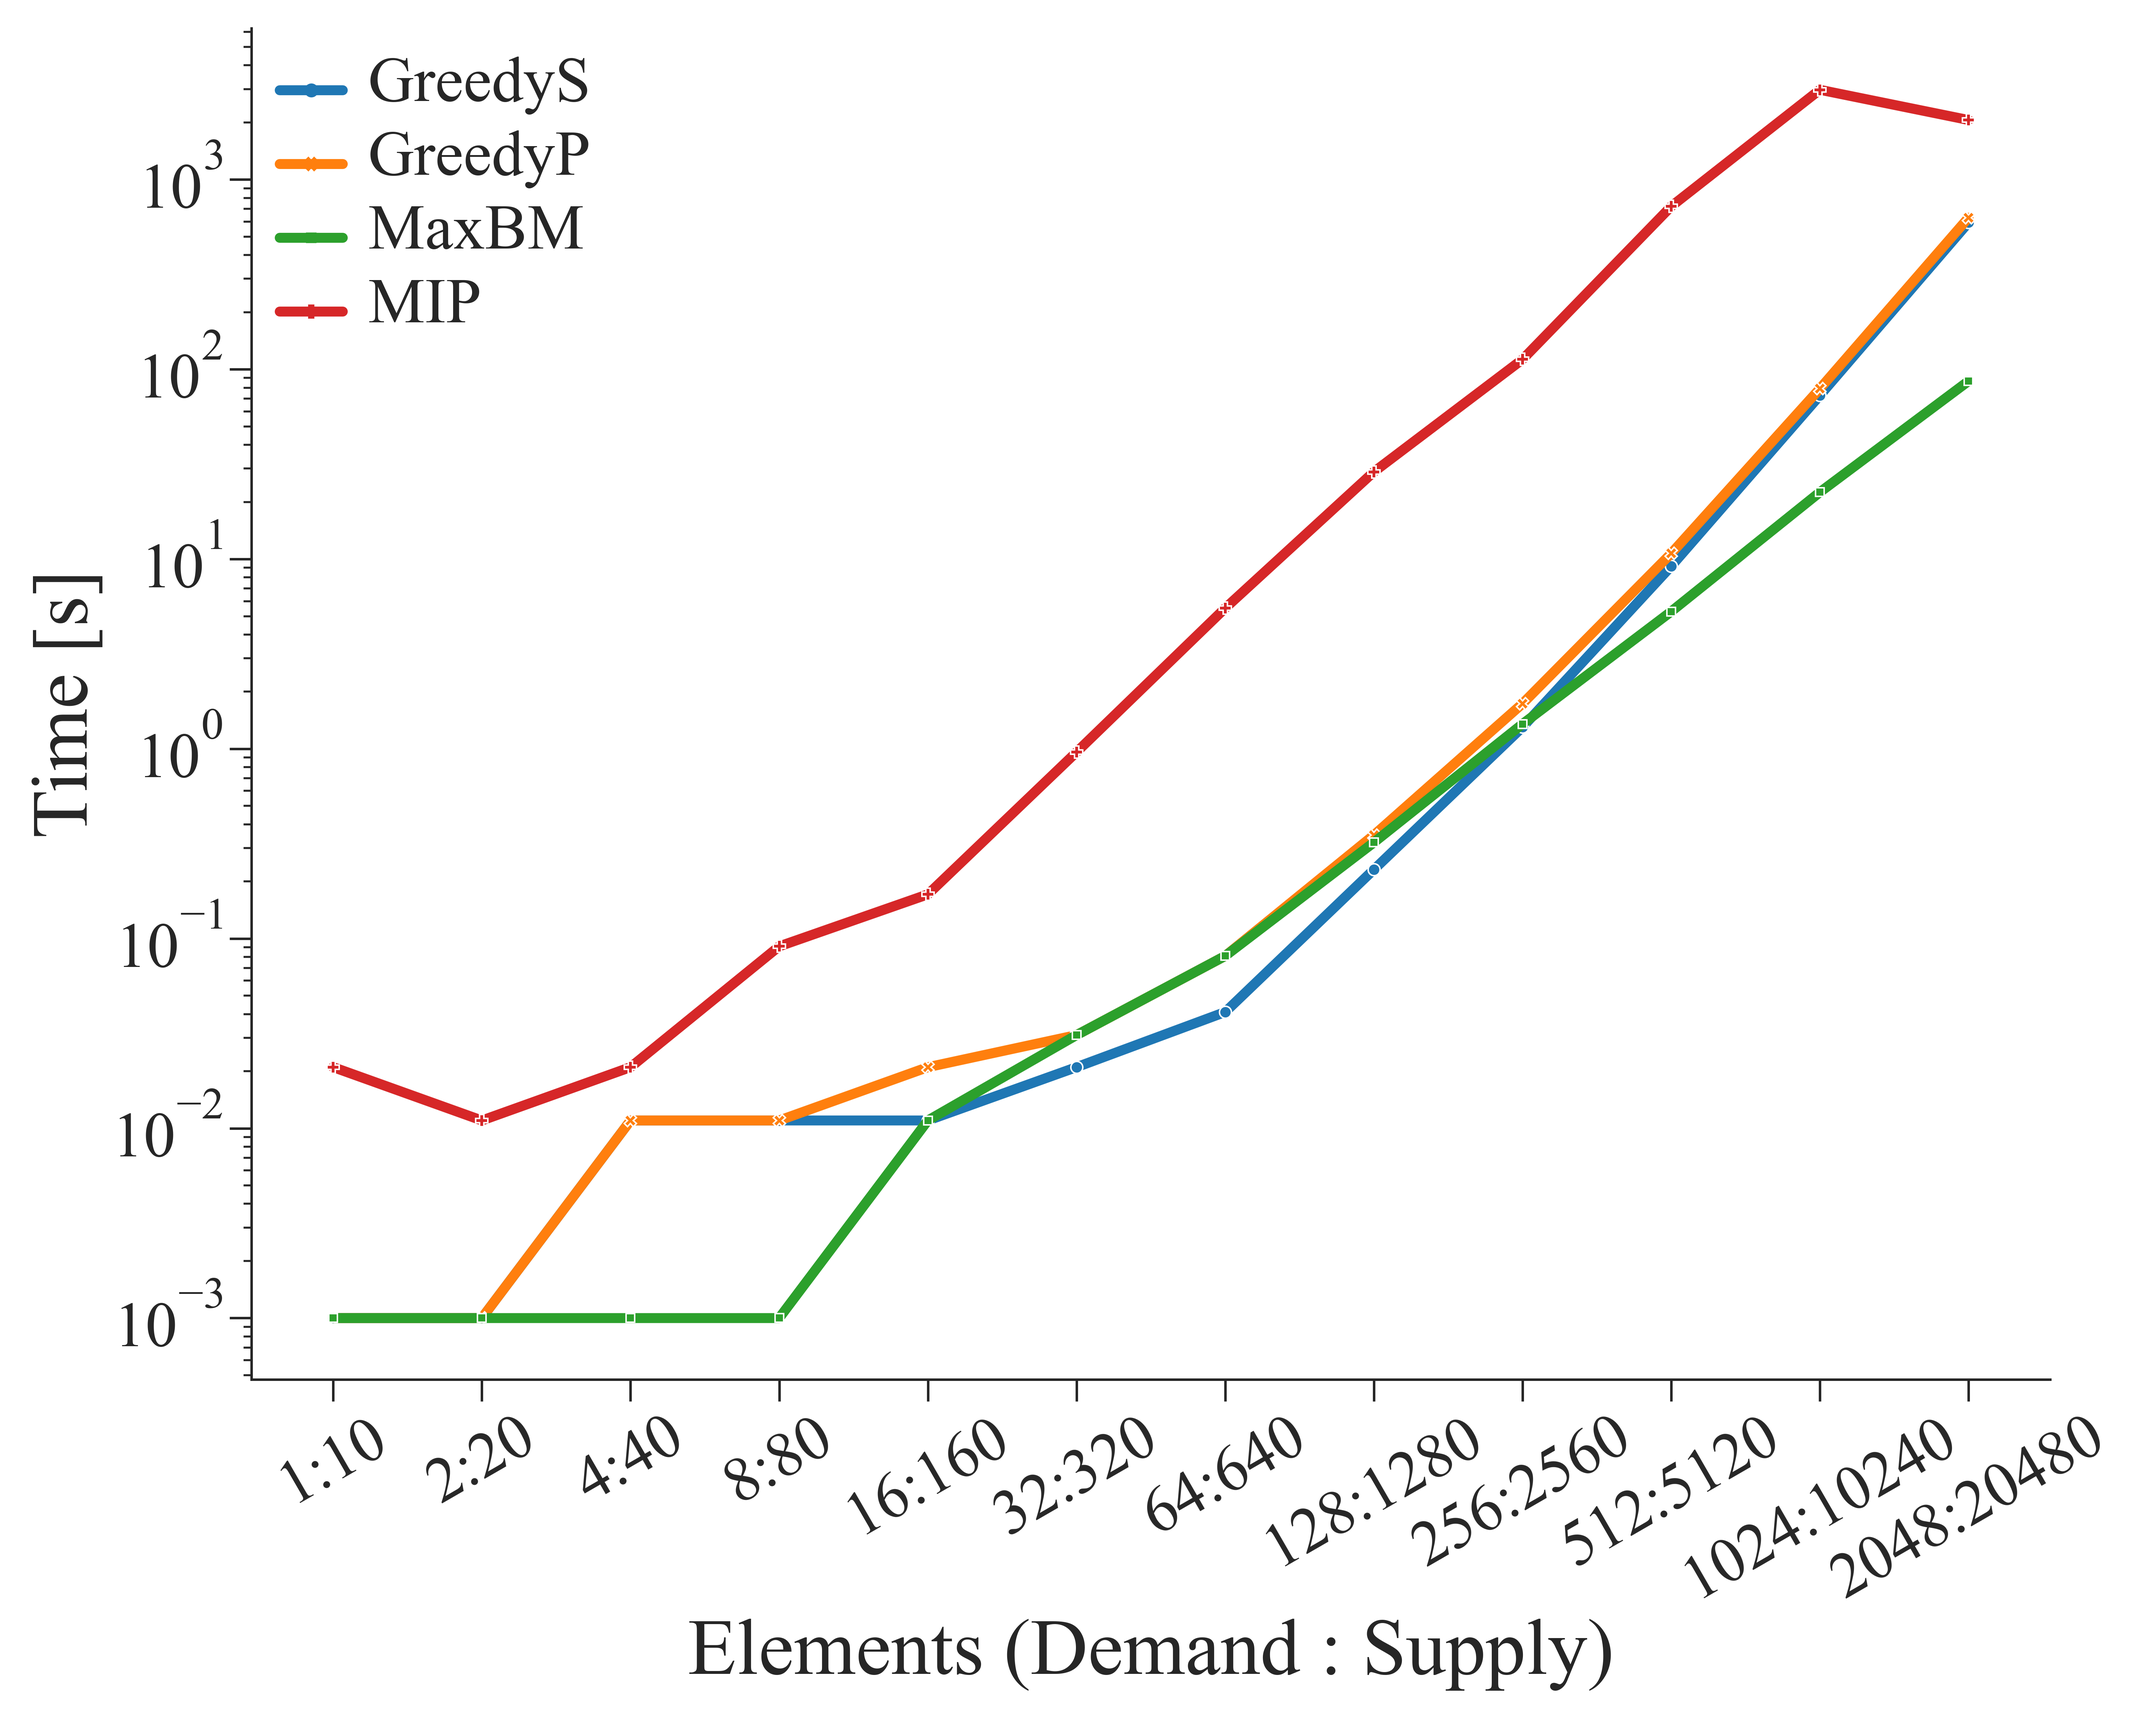
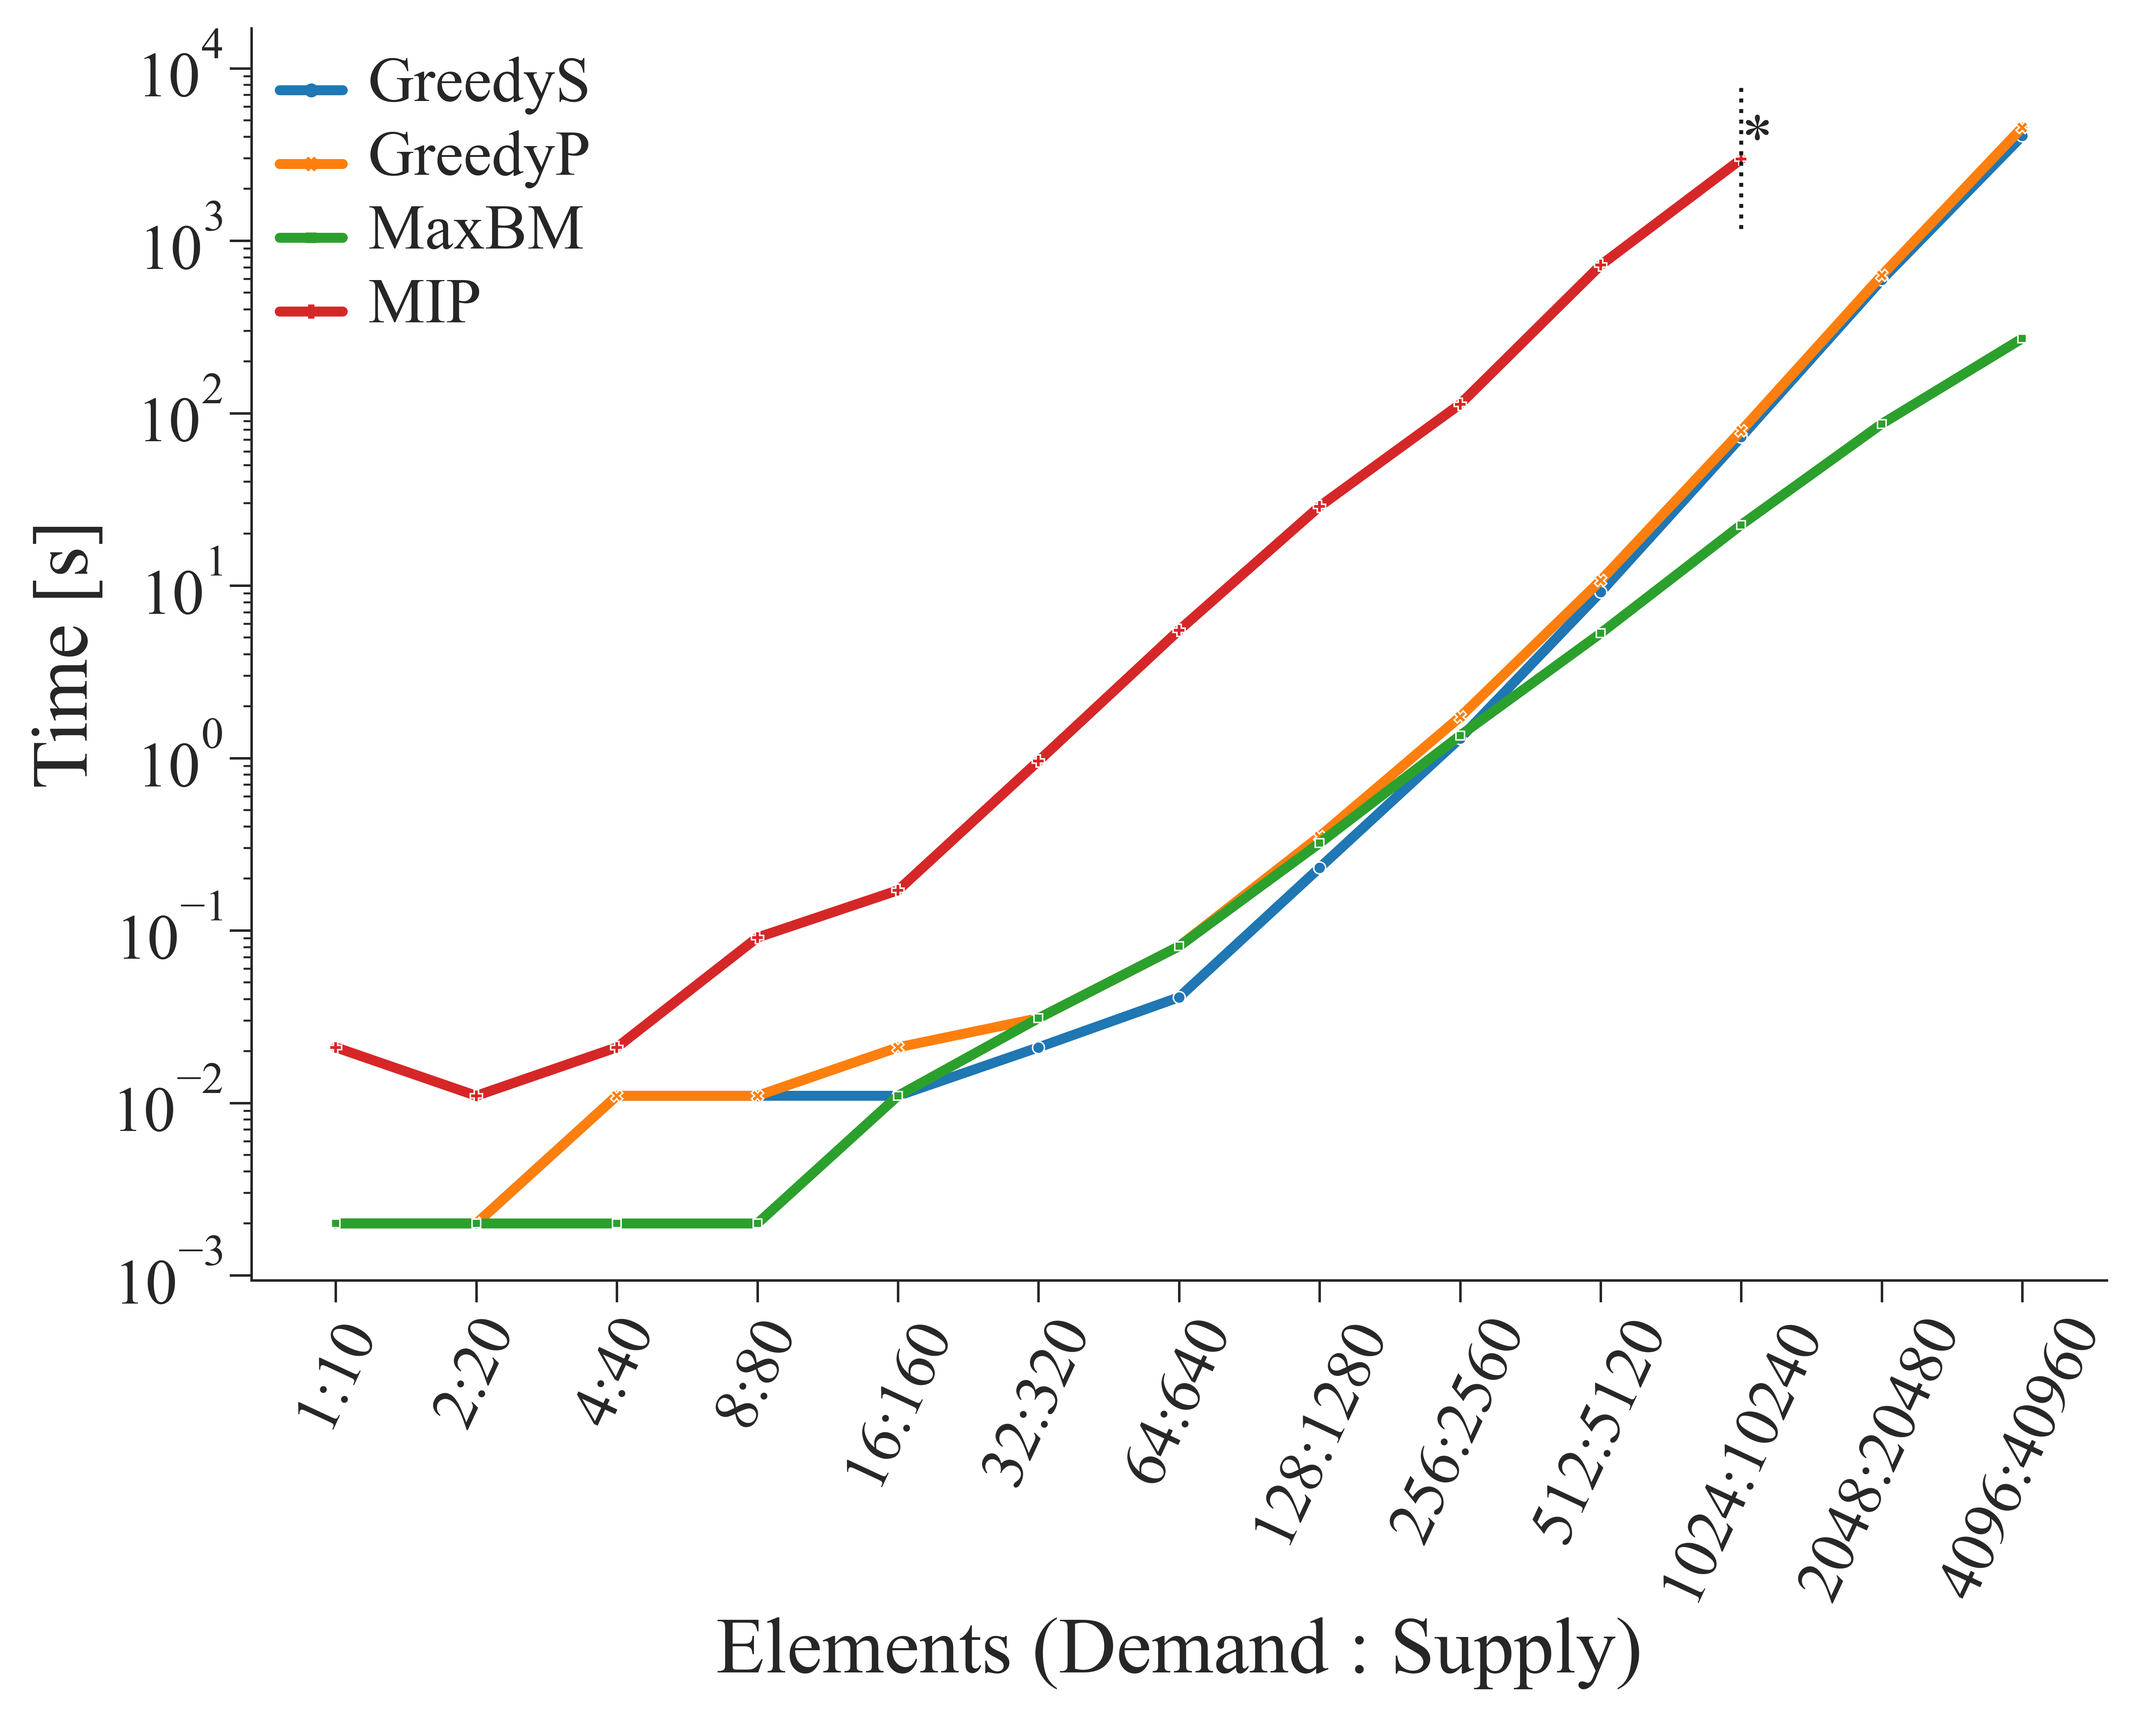
opp med endringer

diff --git a/TestCases/study_case_trusses.py b/TestCases/study_case_trusses.py
@@ -297,7 +297,7 @@ if __name__ == "__main__":
     amounts = [
         # test
         # [15,10],
-        [25,20],
+        # [25,20],
         # [35,30],
         # variable ratios
         # [985,15],
@@ -327,7 +327,7 @@ if __name__ == "__main__":
         # [1024,10240],
         #only without MIP
         # [2048,20480],
-        # [4096,40960],
+        [4096,40960],
         ]
 
     results_score_df = pd.DataFrame(columns = ["Greedy_single", "Greedy_plural", "Bipartite", "MILP"])
@@ -355,7 +355,7 @@ if __name__ == "__main__":
         # Run the matching
         result = run_matching(demand, supply, score_function_string_demand=score_function_string_demand, score_function_string_supply = score_function_string_supply,
                             constraints = constraint_dict, add_new = False,
-                            milp=False, sci_milp=False, greedy_single=True, greedy_plural=True, bipartite=True, solution_limit= 20000) 
+                            milp=False, sci_milp=False, greedy_single=False, greedy_plural=True, bipartite=False, solution_limit= 20000) 
 
         pairs = hm.extract_pairs_df(result) # get matching pairs
         supply_assignments_df = hm.get_assignment_df(pairs, supply_ids= supply.index)
@@ -386,12 +386,6 @@ if __name__ == "__main__":
     normalised_old_df = results_old_df.apply(lambda row: row / max(row), axis = 1).multiply(100).round(2)
 
     
-    #hm.plot_savings(results_score_df, **plot_kwargs)
-    #hm.plot_savings(normalised_score_df, save_fig = save_figs, **plot_kwargs) # Added by Sverre
-    #hm.plot_old(results_old_df, **plot_kwargs)
-    #hm.plot_old(normalised_old_df, save_fig = save_figs, **plot_kwargs) # Added by Sverre to see effect of normalising numbers
-    #hm.plot_time(results_time_df, save_fig = save_figs, **plot_kwargs)
-
     
     print(results_score_df)
     print(results_old_df)
@@ -401,7 +395,7 @@ if __name__ == "__main__":
     # Save to CSV:
 
     if save_csv:
-        name = "var_amount_20k"
+        name = "var_amount_40k_greedy_P"
         #name = 'var_ratio'
         time = pd.Timestamp.now().strftime('%Y-%m-%d_%H-%M')
         results_score_df.to_csv(f'Results/CSV_Matching/{time}_Result_{name}_score.csv', index=True)
@@ -409,18 +403,12 @@ if __name__ == "__main__":
         results_time_df.to_csv(f'Results/CSV_Matching/{time}_Result_{name}_time.csv', index=True)
 
 
-    # hm.plot_savings(result_table)
     # print(result_df.transpose())
 
 
-    #hm.plot_histograms(all_elem_df)
-    # hm.plot_scatter(all_elem_df)
-    # hm.plot_bubble(demand, supply)
-    # hm.plot_hexbin(demand, supply)
-
     # --- write supply assignment dfs to Excel
     time_1 = pd.Timestamp.now().strftime('%Y-%m-%d_%H-%M')
-    name_1 = "Assignments"
+    name_1 = "Assignments_40k_GreedyP"
     assignment_path = f'Results/Supply Assignments/{time_1}_{name_1}_score_amount.xlsx'
     write_assignments = False
     if write_assignments:
@@ -428,7 +416,7 @@ if __name__ == "__main__":
             for i, df_sheet in enumerate(supply_ass_df_list):
                 sum_row = df_sheet.applymap(lambda x : len(x) > 0).sum().to_frame().T
                 sum_row.rename({0: 'Total support els'}, inplace = True)
-                df_sheet = df_sheet.append(sum_row)
+                df_sheet = df_sheet.append(sum_row)                
                 df_sheet.to_excel(writer, sheet_name = f'Elements {supply_ass_names[i]}')
     
 

diff --git a/TestCases/display_results.py b/TestCases/display_results.py
@@ -35,7 +35,7 @@ plot_kwargs = {'font.family':'serif','font.serif':['Times New Roman'], 'axes.lab
                 'xtick.labelsize': 32.0, 'ytick.labelsize': 32.0,
                 'legend.fontsize' : 'large', 'lines.linewidth' : 5, 'legend.fancybox' : False, 'legend.frameon' : False}
 save_figs = True
-show_figs = False
+show_figs = True
 #figsize = (10,10)
 # plot hexbin of all elements
 
@@ -48,10 +48,10 @@ show_figs = False
 
 
 ratio_or_amount = 'amount_2'
-plot_savings(var_score_df, save_fig = save_figs, show_fig= show_figs, type= ratio_or_amount, **plot_kwargs) 
-plot_old(var_sub_df, save_fig = save_figs, show_fig= show_figs, type= ratio_or_amount, **plot_kwargs) 
+# plot_savings(var_score_df, save_fig = save_figs, show_fig= show_figs, type= ratio_or_amount, **plot_kwargs) 
+# plot_old(var_sub_df, save_fig = save_figs, show_fig= show_figs, type= ratio_or_amount, **plot_kwargs) 
 plot_time(var_time_df, save_fig = save_figs, show_fig= show_figs, type= ratio_or_amount, **plot_kwargs)
-
+#plt.annotate('*', xy = res)
 
 #read the csv files into dataframes
 var_score_ratio_df =  pd.read_csv(r'Results\CSV_Matching\2023-02-22_21-53_Result_var_ratio_google_score.csv', index_col=0).astype(float)
@@ -67,7 +67,7 @@ var_time_ratio_df.rename(mapper = name_mapper, axis = 1, inplace = True)
 
 
 amount = 'ratio'
-plot_savings(var_score_ratio_df, save_fig = save_figs, show_fig= show_figs, type= amount, **plot_kwargs) 
+#plot_savings(var_score_ratio_df, save_fig = save_figs, show_fig= show_figs, type= amount, **plot_kwargs) 
 #plot_old(var_sub_ratio_df, save_fig = save_figs,  show_fig= show_figs, type= amount, **plot_kwargs) 
 #plot_time(var_time_ratio_df, save_fig = save_figs,  show_fig= show_figs, type= amount, **plot_kwargs)
 

diff --git a/Matching/helper_methods.py b/Matching/helper_methods.py
@@ -197,12 +197,14 @@ def plot_time(result_df, type, style = 'ticks', font_scale = 1.1,
     #plt.figure()
     sns.set_theme(style = style, font_scale = font_scale, rc = kwargs)
     #palette names = 'tab10'
-    
+    result_df.replace(0, np.nan, inplace = True)
     plot = sns.lineplot(data=result_df.add(0.001), palette="tab10", dashes = False, markers=True)
     plot.set(yscale="log", xlabel='Elements (Demand : Supply)', ylabel='Time [s]')
-    plt.xticks(rotation=30)
-    
-    
+    plt.xticks(rotation=65)
+    #plt.axhline(1.0, linestyle = ':', color = 'k')
+    plt.vlines(x='1024:10240', ymin=result_df.loc['1024:10240', 'MIP'] - 1800, ymax=result_df.loc['1024:10240', 'MIP'] + 5000, 
+               linewidth = kwargs['lines.linewidth'], colors='k', ls=':', lw=2, label=None)
+    plt.text('1024:10240', result_df.loc['1024:10240', 'MIP'], '*', fontsize = kwargs['xtick.labelsize'])
     # adjust font on labels
     legend = plt.legend()
     for text in legend.get_texts():
